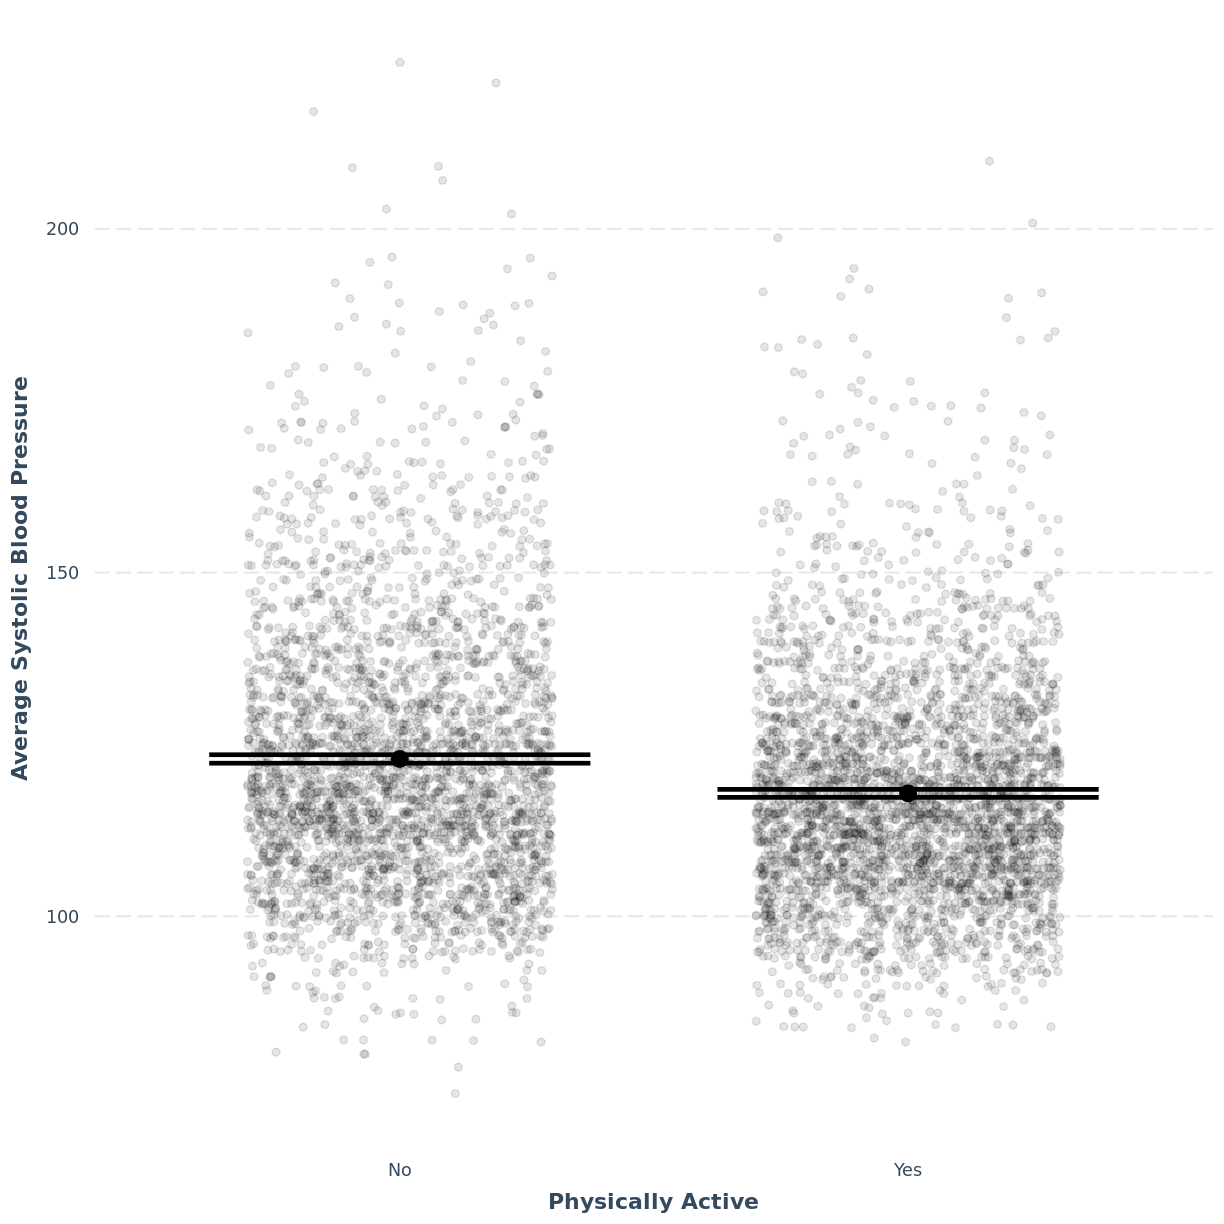
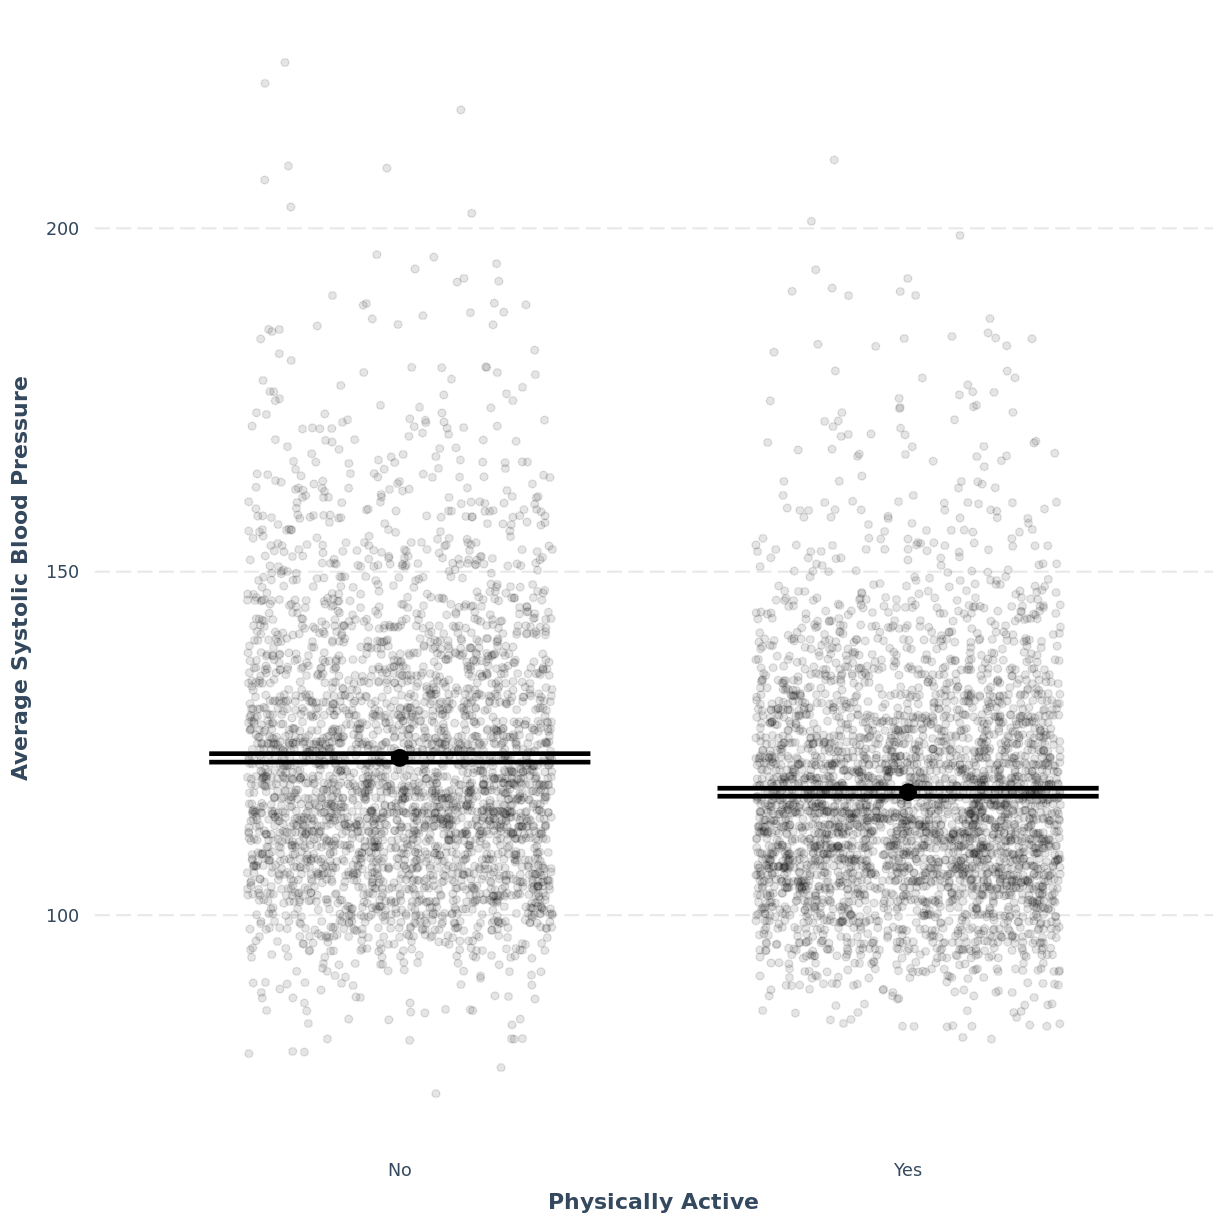
resolve issue #14

diff --git a/_episodes/03-twoLvlFactor.md b/_episodes/03-twoLvlFactor.md
@@ -190,6 +190,33 @@ effect_plot(TotChol_SmokeNow_lm, pred = SmokeNow,
 
 <img src="../fig/rmd-03-SmokeNow vs TotChol effect_plot-1.png" title="plot of chunk SmokeNow vs TotChol effect_plot" alt="plot of chunk SmokeNow vs TotChol effect_plot" width="612" style="display: block; margin: auto;" />
 
+> ## Notes on `jitter` and `point.alpha`
+> Including `jitter = 0.3` results in points being *randomly* jittered. 
+> Therefore, your plot will differ slightly from the one shown above. 
+> Re-running the code will also give a slightly different jitter. 
+> If you would want to fix the `jitter` to one randomisation, 
+> you could run a `set.seed()` command ahead of `effect_plot`.
+> `set.seed()` takes one positive value, which specifies the randomisation. This
+> can be any positive value. For example, if you run the code below, your 
+> jitter will match the one shown on this page:
+> 
+> 
+> ~~~
+> set.seed(20) #fix the jitter to a particular pattern
+> effect_plot(TotChol_SmokeNow_lm, pred = SmokeNow,
+>             plot.points = TRUE, jitter = 0.3, point.alpha = 0.1) +
+>   xlab("Participant has not given up smoking") +
+>   ylab("Total HDL Cholesterol")
+> ~~~
+> {: .language-r}
+> 
+> <img src="../fig/rmd-03-SmokeNow vs TotChol effect_plot with set seed-1.png" title="plot of chunk SmokeNow vs TotChol effect_plot with set seed" alt="plot of chunk SmokeNow vs TotChol effect_plot with set seed" width="612" style="display: block; margin: auto;" />
+> 
+> Including `point.alpha = 0.1` introduces opacity into the plotted points.
+> As a result, if many points are plotted on top of each other, this area
+> shows up with darker dots. Including opacity allows us to see where many of 
+> the points lie, which is handy with big public health data sets. 
+{: .callout}
 
 > ## Exercise  
 > Use the `jtools` package to visualise the model of `BPSysAve` as a 

diff --git a/_episodes/02-singleContPred.md b/_episodes/02-singleContPred.md
@@ -98,11 +98,15 @@ We will come to interpreting the `Model Fit` section in a later episode. For now
 > ## Interpretation of the 95% CI and p-value of `Height`
 > 
 > If *prior to fitting our model* we were interested in testing the hypotheses 
-> $H_0: \beta_1 > = 0$ vs $H_1: \beta \neq 0$, we could check the 95% CI 
+> $H_0: \beta_1 = 0$ vs $H_1: \beta \neq 0$, we could check the 95% CI 
 > for `Height`. Recall that 95% of 95% CIs are expected to contain the true population 
 > mean. Since this 95% CI does not contain 0, we would be fairly confident in rejecting 
 > $H_0$ in favour of $H_1$. Alternatively, since the p-value is less than 0.05, 
 > we could reject $H_0$ on those grounds. 
+>
+> Note that the `summ()` output below shows `p = 0.000`. P values are never
+> truely zero. The interpretation of `p = 0.000` is therefore that 
+> `p < 0.001`, as the p-value was rounded to three digits. 
 >
 > Often the null hypothesis tested by `summ()`, $H_0: \beta_1 = 0$, is not very 
 > interesting, as it is rare that we expect a variable to have an effect of 0. 
